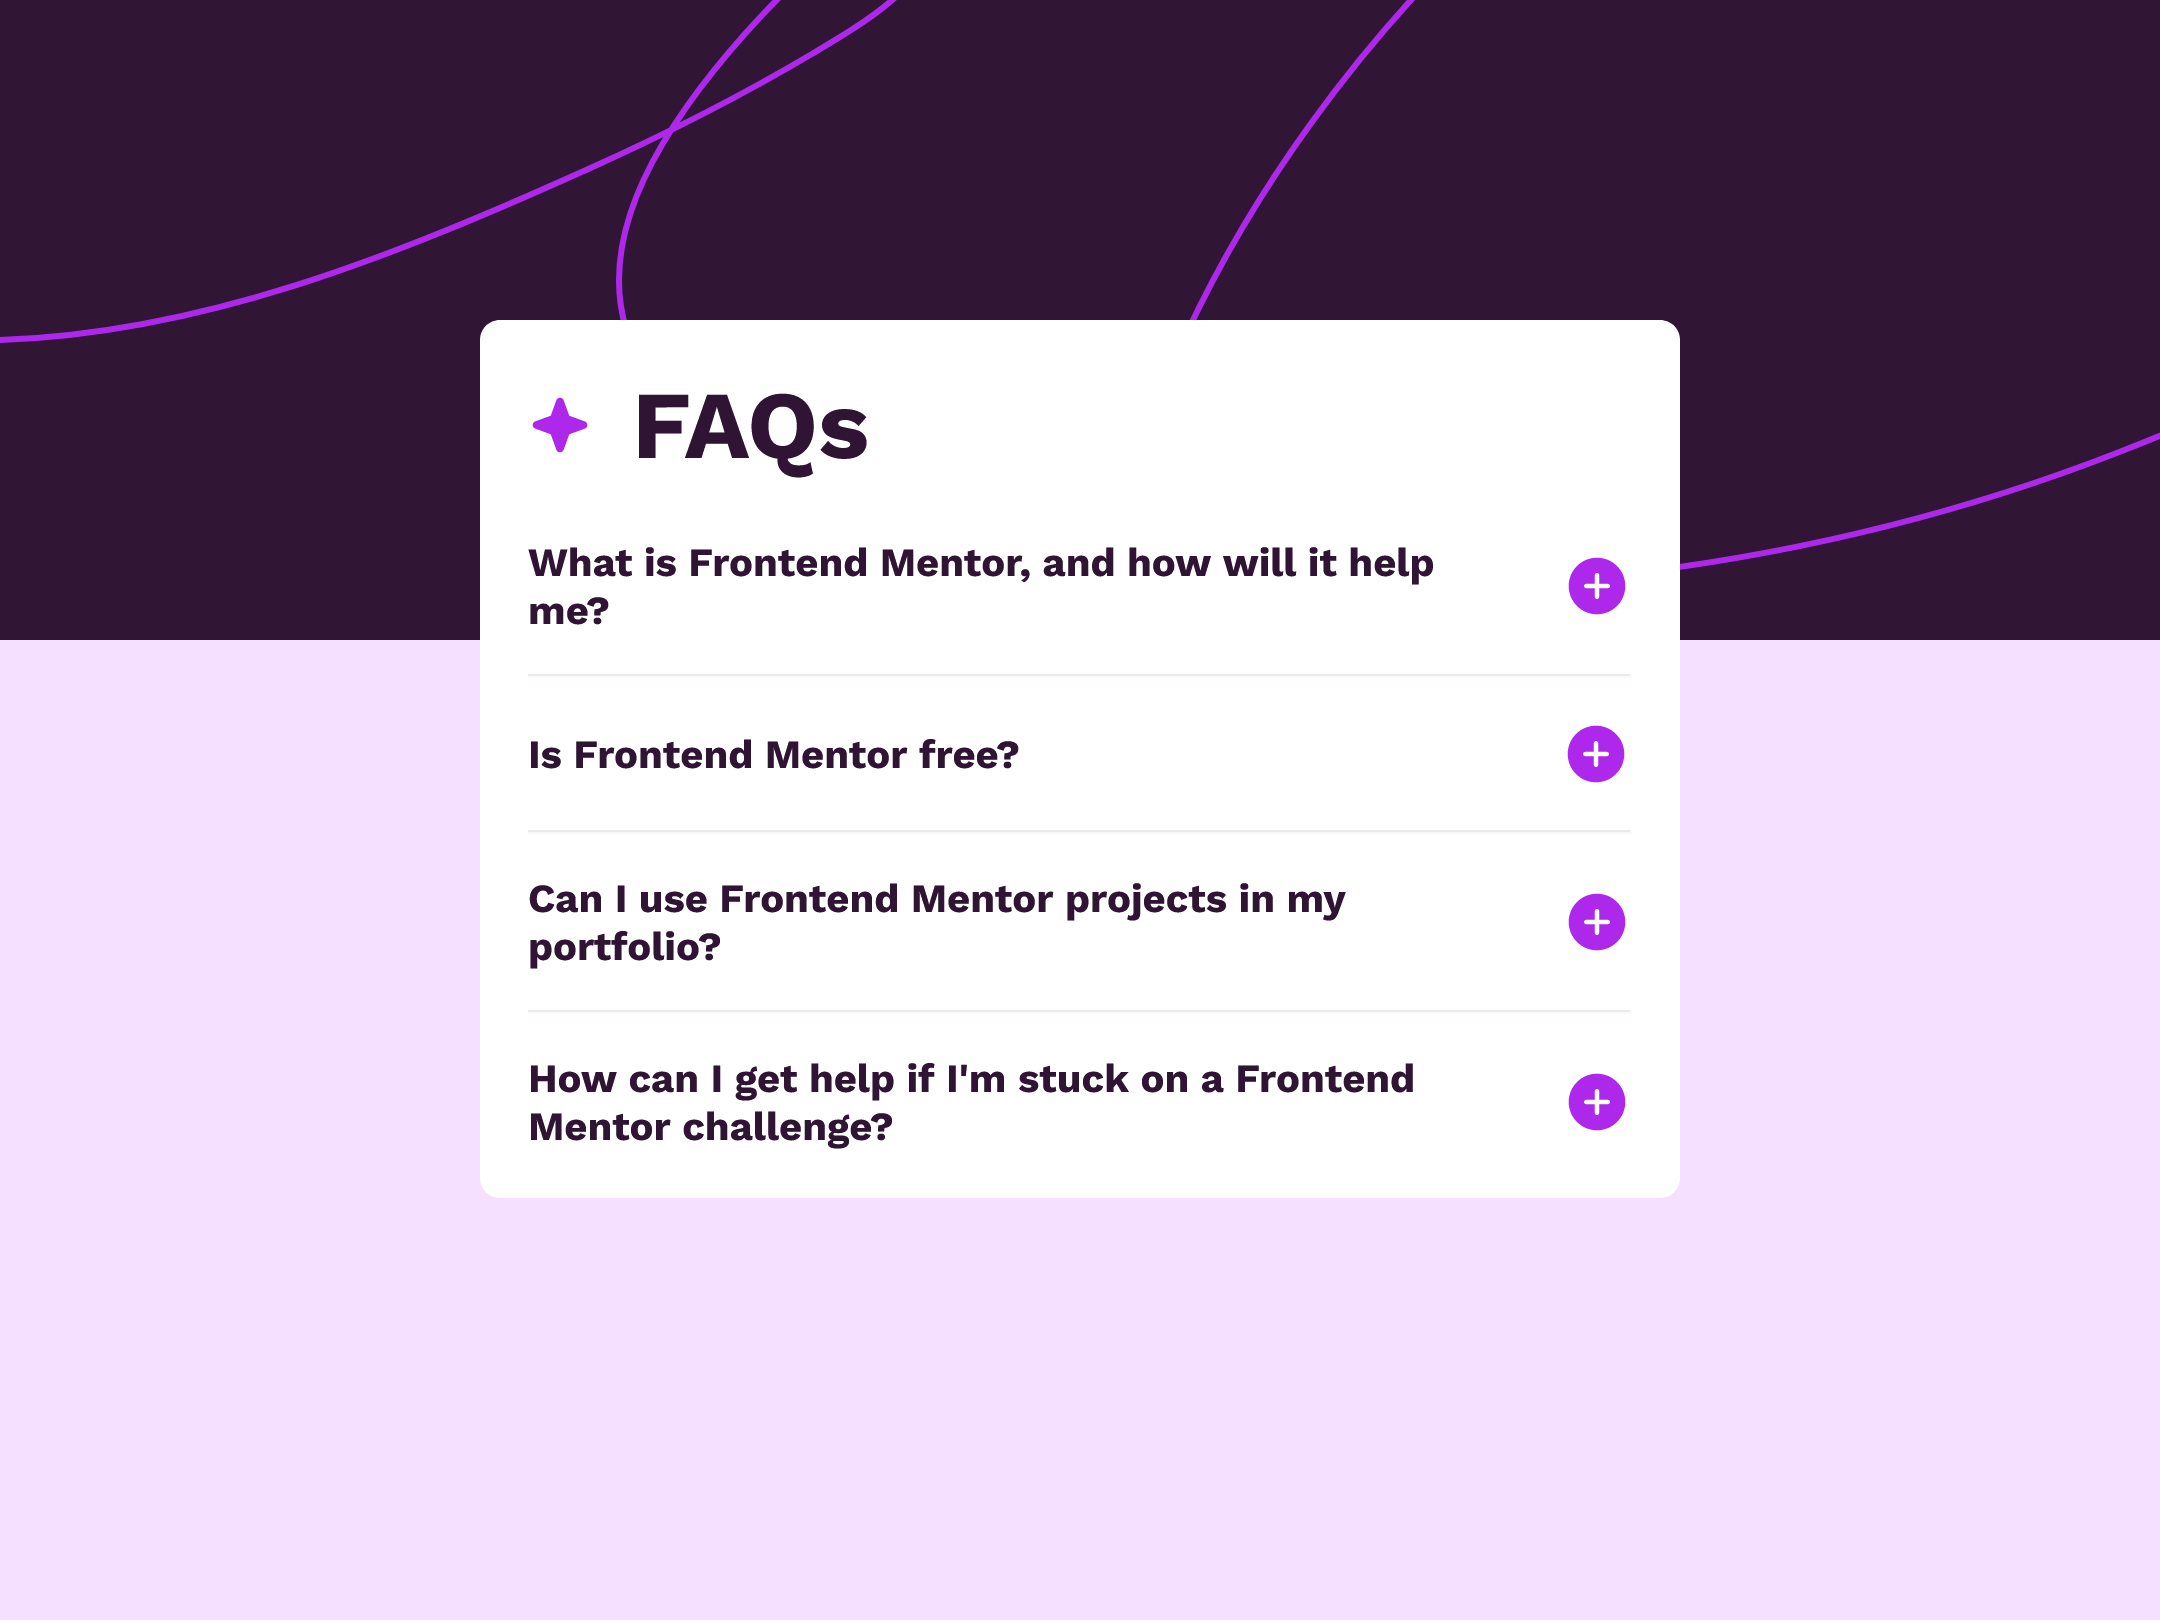
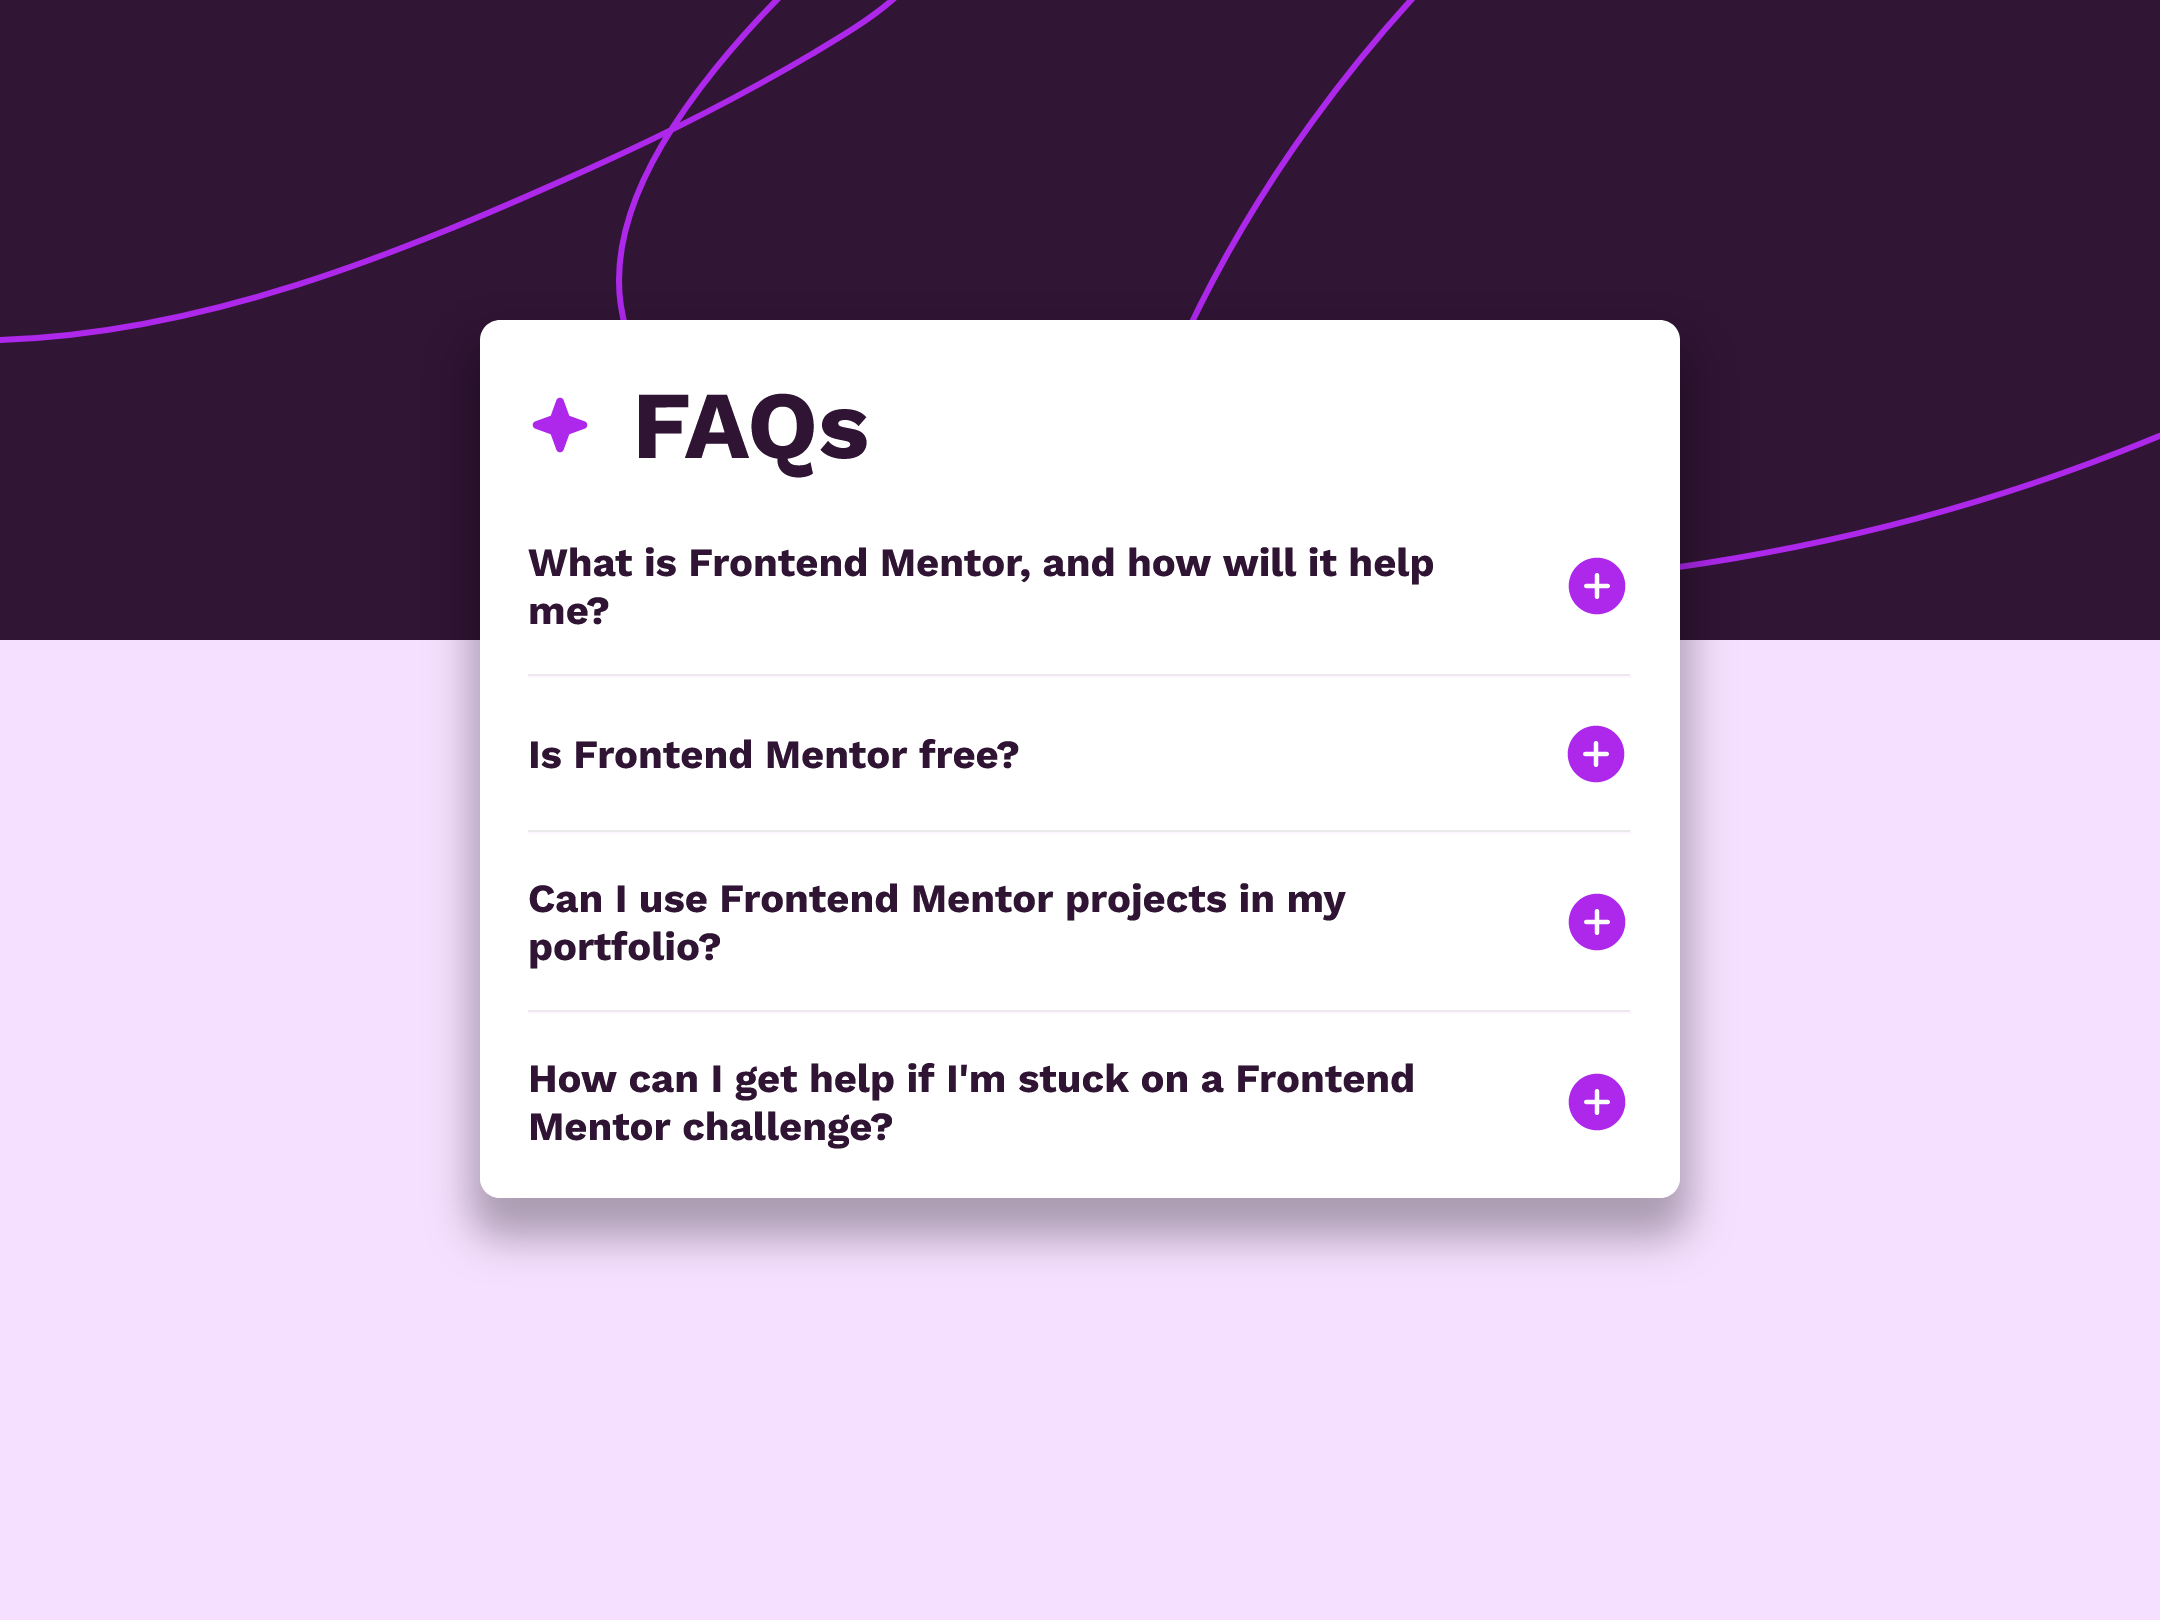
add shadow and default state

Changed region(s): [[0.1861, 0.4012, 0.8065, 0.7716]]

diff --git a/index.html b/index.html
@@ -16,10 +16,10 @@
 
       <div class="question">
         <h2 class="question-title">What is Frontend Mentor, and how will it help me?</h2>
-        <img src="./assets/images/icon-plus.svg" alt="plus" class="question-icon plus" />
-        <img src="./assets/images/icon-minus.svg" alt="minus" class="question-icon minus hidden" />
+        <img src="./assets/images/icon-plus.svg" alt="plus" class="question-icon plus hidden" />
+        <img src="./assets/images/icon-minus.svg" alt="minus" class="question-icon minus" />
       </div>
-      <p class="answer hidden">
+      <p class="answer">
         Frontend Mentor offers realistic coding challenges to help developers improve their frontend
         coding skills with projects in HTML, CSS, and JavaScript. It's suitable for all levels and
         ideal for portfolio building.

diff --git a/style.css b/style.css
@@ -64,7 +64,7 @@ body {
   display: flex;
   flex-direction: column;
   gap: 0.75em;
-  box-shadow: 0 3px 10px rgba(0 0 0 0.2);
+  box-shadow: 0 15px 20px 5px rgba(0,0,0,0.3);
   height: max-content;
 }
 
